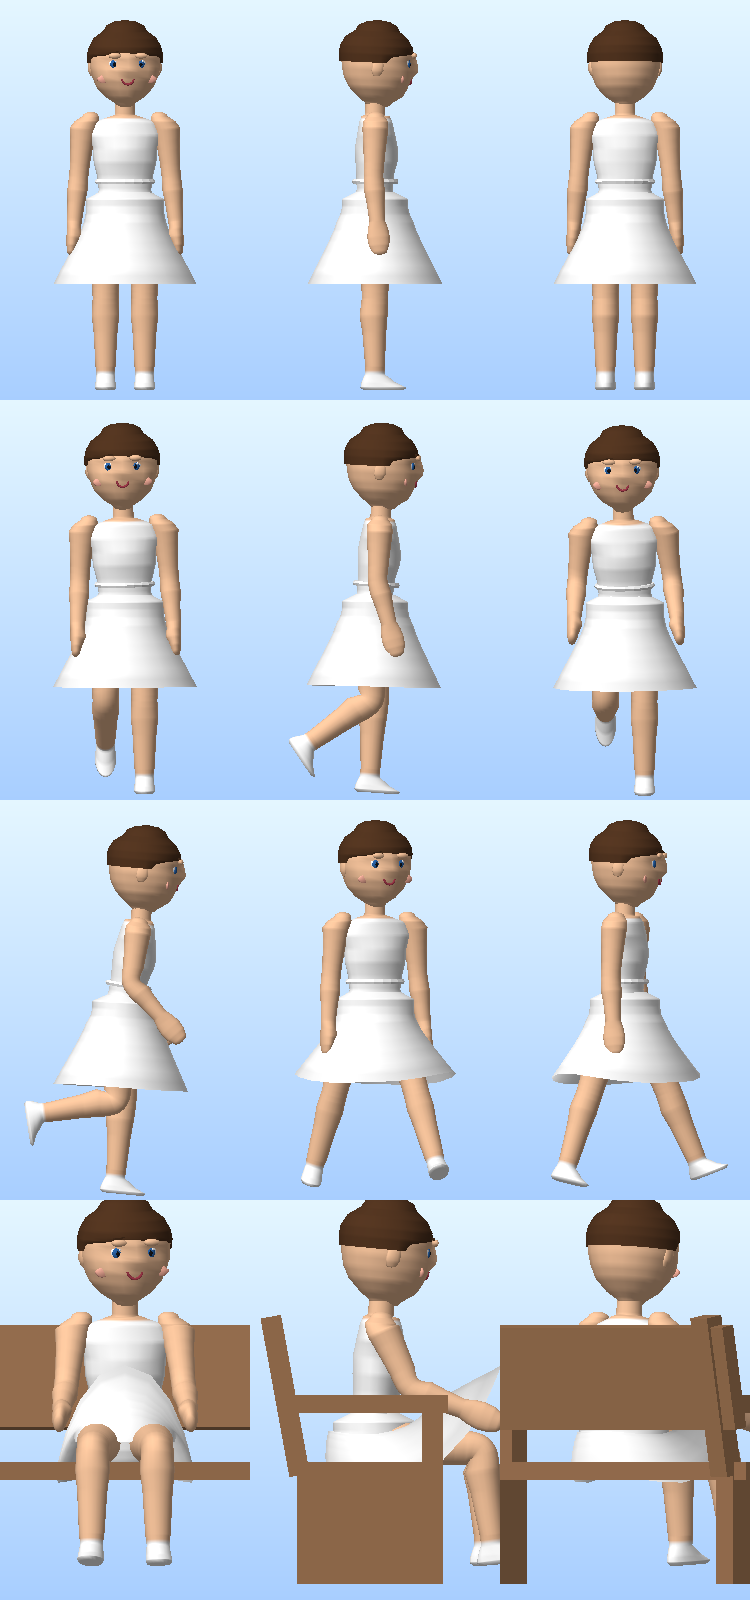
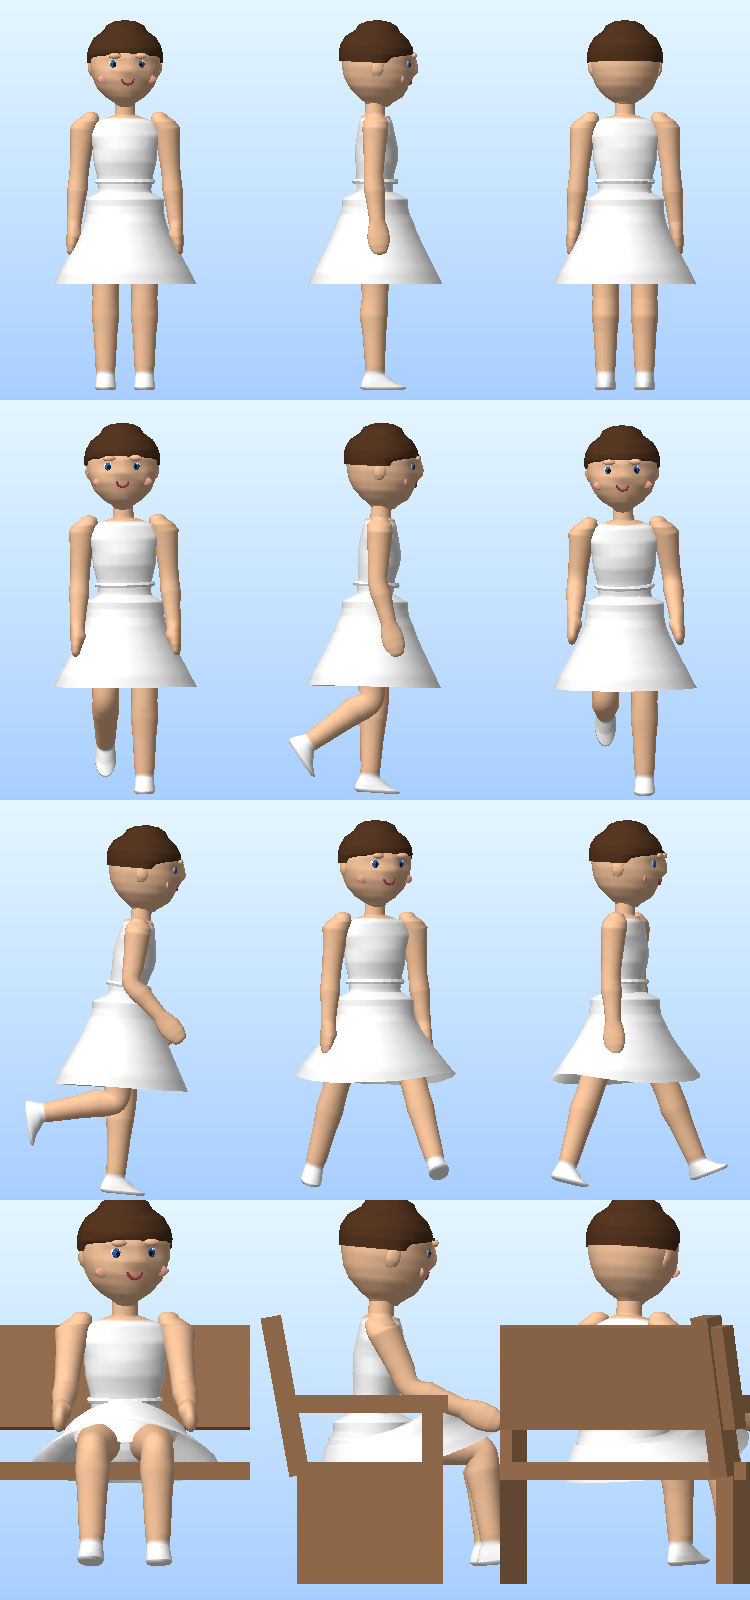
Dá queda à saia de quem senta, com uma segunda fileira de ossos
A captura do jogador mostra o problema inteiro: sentada no banco, a
saia virava um balde rígido. Ela não acompanhava a pose, a parte de
baixo ficava dura e irregular, o quadril não era coberto onde o corpo
estava, o tecido se fundia com a tábua e não havia continuidade entre
tronco, saia e pernas.

Os dezoito testes que já existiam passavam com essa imagem na tela —
eles mediam penetração e cobertura, e um balde levantado satisfaz as
duas coisas. Por isso a correção foi conduzida pela imagem, com os
números no papel de trava, não de objetivo.

A causa é geométrica: a saia tinha um único segmento, preso no
quadril. Girar um cone em torno do quadril não o deita no colo —
rotação preserva o raio, então o tecido passa à frente da coxa em vez
de pousar sobre ela — e quadrantes vizinhos girados de forma muito
diferente vincam a malha em pontas, que é o papelão da captura.

Então a saia ganhou uma articulação. Cada quadrante tem agora um osso
de barra, filho dele, na altura de SKIRT_BREAK_Y. O quadrante de cima
acompanha o corpo; a barra desfaz parte desse giro e volta a cair na
vertical. Como o osso da barra fica exatamente na quebra, o anel dali
não se move e a costura entre as duas fileiras continua fechada. Em
pé e andando lap vale zero e a fileira nova não faz nada: nada do que
já estava certo mudou.

Com a articulação no lugar, os quadrantes puderam ficar próximos uns
dos outros (0,75 à frente contra 0,55 nos lados) e o recolhimento
[…]

diff --git a/src/player/body/BodyRig.ts b/src/player/body/BodyRig.ts
@@ -50,11 +50,30 @@ export const Bone = {
   SkirtF: 12,
   SkirtR: 13,
   SkirtB: 14,
+  /**
+   * A segunda fileira: a barra, filha de cada quadrante.
+   *
+   * Um pano sobre um colo precisa de duas dobradiças, não de uma. A
+   * de cima acompanha a coxa deitada; esta quebra no joelho e deixa o
+   * resto cair. Com um segmento só, a saia sentada é um cone rígido —
+   * foi o que a captura do jogador mostrou.
+   */
+  SkirtHemL: 15,
+  SkirtHemF: 16,
+  SkirtHemR: 17,
+  SkirtHemB: 18,
 } as const;
 
-export const BONE_COUNT = 15;
+export const BONE_COUNT = 19;
 
 /** Os ossos da saia, na ordem dos azimutes que `FollowSpec` espera. */
+export const SKIRT_HEM_QUADRANTS: readonly [number, number, number, number] = [
+  Bone.SkirtHemL,
+  Bone.SkirtHemF,
+  Bone.SkirtHemR,
+  Bone.SkirtHemB,
+];
+
 export const SKIRT_QUADRANTS: readonly [number, number, number, number] = [
   Bone.SkirtL,
   Bone.SkirtF,
@@ -79,6 +98,10 @@ export const BONE_NAMES: readonly string[] = Object.freeze([
   'saia-f',
   'saia-d',
   'saia-t',
+  'saia-e-barra',
+  'saia-f-barra',
+  'saia-d-barra',
+  'saia-t-barra',
 ]);
 
 /* ------------------------- medidas de referência ------------------------- */
@@ -127,15 +150,15 @@ export const HIP_HEIGHT = THIGH + SHIN + ANKLE;
 export const SKIRT_FOLLOW_WALK = 0.5;
 /**
  * Sentada, cada quadrante faz uma coisa diferente — é para isso que
- * eles existem. A frente deita sobre o colo; as laterais quase não
- * giram, porque a saia de quem senta não vai para a frente, ela
- * desce ao lado, e ainda se recolhe para dentro, espremida entre o
- * quadril e a tábua. Seguir tudo junto a 0,92 inflava a saia num
- * balão — número nenhum acusou isso, só a imagem.
+ * eles existem — mas **pouco diferente um do outro**. A frente
+ * acompanha mais que as laterais, e só. Afastar demais um quadrante
+ * do vizinho amassa a malha na diagonal, onde os dois se misturam, e
+ * é de lá que saíam as pontas de papelão da captura do jogador.
+ * Girar todos juntos a 0,92, no outro extremo, inflava um balão.
  */
-export const SKIRT_FOLLOW_LAP = 0.6;
-export const SKIRT_SIDE_LAP = 0.25;
-export const SKIRT_TUCK = 0.25;
+export const SKIRT_FOLLOW_LAP = 0.75;
+export const SKIRT_SIDE_LAP = 0.55;
+
 
 /** Fração da abertura lateral da perna que a saia acompanha. */
 export const SKIRT_SPREAD = 0.5;
@@ -168,7 +191,28 @@ export const LAP_TO = 1.45;
  * sobe um pouco quando a gente senta. Sem isso a barra atravessa a
  * tábua — eram 55 vértices dentro da madeira, agora são 32.
  */
-export const SKIRT_LIFT = 0.24;
+export const SKIRT_LIFT = 0.18;
+
+/**
+ * Onde o pano quebra, em metros abaixo da junta do quadril.
+ *
+ * A saia vai de +0,09 (cintura) a −0,36 (barra). A quebra fica a meio
+ * caminho da parte solta: sentada, é mais ou menos onde o joelho
+ * aparece sob o tecido, e é ali que uma saia de verdade vira e
+ * despenca. Acima dela o pano acompanha a coxa; abaixo, cai.
+ */
+export const SKIRT_BREAK_Y = -0.18;
+
+/**
+ * Quanto da volta da coxa a barra desfaz, sentada.
+ *
+ * Em 1 a metade de baixo fica exatamente na vertical, pendurada da
+ * quebra: é a gravidade pura, o tecido esquecendo que a coxa virou.
+ * Fica abaixo de 1 porque a barra também é puxada para a frente pelo
+ * joelho — ela cai, mas não na prumada perfeita.
+ */
+export const SKIRT_HEM_FALL = 0.65;
+export const SKIRT_HEM_BACK_FALL = 0.35;
 
 /**
  * O recolhimento a mais do pano de trás, em metros e radianos.
@@ -209,20 +253,28 @@ export function poseSkirt(bones: readonly THREE.Bone[], legLX: number, legRX: nu
   const lap = lapAmount(legLX, legRX);
   const front = mix(SKIRT_FOLLOW_WALK, SKIRT_FOLLOW_LAP, lap);
   const side = mix(SKIRT_FOLLOW_WALK, SKIRT_SIDE_LAP, lap);
-  const tuck = SKIRT_TUCK * lap;
   const lift = SKIRT_LIFT * lap;
 
   // Cada lado segue a sua própria perna, e se recolhe para dentro ao
   // sentar: a saia de quem senta não vai para a frente, ela desce ao
   // lado, espremida entre o quadril e a tábua.
-  bones[Bone.SkirtL].rotation.set(side * legLX, 0, SKIRT_SPREAD * legLZ - tuck);
-  bones[Bone.SkirtR].rotation.set(side * legRX, 0, SKIRT_SPREAD * legRZ + tuck);
+  bones[Bone.SkirtL].rotation.set(side * legLX, 0, SKIRT_SPREAD * legLZ);
+  bones[Bone.SkirtR].rotation.set(side * legRX, 0, SKIRT_SPREAD * legRZ);
   // A frente segue a média: zero na passada, o colo inteiro ao sentar.
   bones[Bone.SkirtF].rotation.set(front * average, 0, 0);
   // As costas não giram com perna nenhuma: elas se recolhem. O tombo
   // é para a frente, trazendo a barra para cima do assento; para trás
   // ela entraria no espaldar.
   bones[Bone.SkirtB].rotation.set(-SKIRT_BACK_TILT * lap, 0, 0);
+
+  // A barra desfaz a volta que o quadrante deu: o de cima acompanha a
+  // coxa, o de baixo cai. Em pé `lap` é zero e esta fileira inteira
+  // fica na identidade — andar e correr continuam idênticos ao que
+  // eram antes de ela existir.
+  bones[Bone.SkirtHemL].rotation.x = -SKIRT_HEM_FALL * lap * side * legLX;
+  bones[Bone.SkirtHemR].rotation.x = -SKIRT_HEM_FALL * lap * side * legRX;
+  bones[Bone.SkirtHemF].rotation.x = -SKIRT_HEM_FALL * lap * front * average;
+  bones[Bone.SkirtHemB].rotation.x = SKIRT_HEM_BACK_FALL * lap * SKIRT_BACK_TILT;
 
   bones[Bone.SkirtL].position.y = lift;
   bones[Bone.SkirtR].position.y = lift;
@@ -401,9 +453,13 @@ export function createSkeleton(m: BodyMetrics): BodySkeleton {
   // Os ossos da saia giram em torno da origem do quadril: é de lá que
   // o pano pende, não da junta da perna.
   for (const index of SKIRT_QUADRANTS) place(index, 0, 0, 0);
+  // A dobradiça da barra fica na altura em que o pano quebra, não na
+  // cintura: é em torno dela que a metade de baixo cai.
+  for (const index of SKIRT_HEM_QUADRANTS) place(index, 0, SKIRT_BREAK_Y, 0);
 
   bones[Bone.Hips].add(bones[Bone.Torso], bones[Bone.ThighL], bones[Bone.ThighR]);
   for (const index of SKIRT_QUADRANTS) bones[Bone.Hips].add(bones[index]);
+  for (let q = 0; q < 4; q += 1) bones[SKIRT_QUADRANTS[q]].add(bones[SKIRT_HEM_QUADRANTS[q]]);
   bones[Bone.Torso].add(bones[Bone.Head], bones[Bone.ArmL], bones[Bone.ArmR]);
   bones[Bone.ArmL].add(bones[Bone.ForeL]);
   bones[Bone.ArmR].add(bones[Bone.ForeR]);

diff --git a/tests/unit/vestido-render.test.ts b/tests/unit/vestido-render.test.ts
@@ -131,4 +131,45 @@ describe.runIf(process.env.EDEN_RENDER)('vestido no quadril (visual)', () => {
     writeFileSync(resolve(process.cwd(), 'docs', name), png(sheet.width, sheet.height, sheet.rgb));
     expect(sheet.width).toBeGreaterThan(0);
   });
+
+  it('desenha a sequência de sentar', () => {
+    const avatar = new Avatar({ ...DEFAULT_APPEARANCE, outfit: 'vestido' });
+
+    /** Um instante qualquer da transição entre dois estados. */
+    const during = (from: 'idle' | 'sit', to: 'idle' | 'sit', frames: number): Pose => {
+      const animator = new AvatarAnimator();
+      let pose = animator.update(1 / 60, { state: from, speed: 0, stridePhase: 0, verticalSpeed: 0, elapsed: 0 });
+      for (let f = 1; f <= 120; f += 1) {
+        pose = animator.update(1 / 60, { state: from, speed: 0, stridePhase: 0, verticalSpeed: 0, elapsed: f / 60 });
+      }
+      for (let f = 1; f <= frames; f += 1) {
+        pose = animator.update(1 / 60, { state: to, speed: 0, stridePhase: 0, verticalSpeed: 0, elapsed: (120 + f) / 60 });
+      }
+      return pose;
+    };
+
+    const emPe = settle('idle', 0);
+    const sentada = during('idle', 'sit', 150);
+
+    // 1: em pé, de frente, de três quartos e de perfil.
+    const linha1 = strip([seated(avatar, emPe, 0), seated(avatar, emPe, -0.45), seated(avatar, emPe, Math.PI / 2)]);
+    // 2: sentando — três instantes da descida.
+    const linha2 = strip([
+      seated(avatar, during('idle', 'sit', 6), -0.45),
+      seated(avatar, during('idle', 'sit', 14), -0.45),
+      seated(avatar, during('idle', 'sit', 26), -0.45),
+    ]);
+    // 3: sentada, de frente, de três quartos e de perfil.
+    const linha3 = strip([seated(avatar, sentada, 0), seated(avatar, sentada, -0.45), seated(avatar, sentada, Math.PI / 2)]);
+    // 4: levantando — três instantes da volta.
+    const linha4 = strip([
+      seated(avatar, during('sit', 'idle', 6), -0.45),
+      seated(avatar, during('sit', 'idle', 14), -0.45),
+      seated(avatar, during('sit', 'idle', 30), -0.45),
+    ]);
+
+    const sheet = stack([linha1, linha2, linha3, linha4]);
+    writeFileSync(resolve(process.cwd(), 'docs', 'vestido-sentada.png'), png(sheet.width, sheet.height, sheet.rgb));
+    expect(sheet.width).toBeGreaterThan(0);
+  });
 });

diff --git a/src/player/body/BodyBuilder.ts b/src/player/body/BodyBuilder.ts
@@ -23,7 +23,7 @@ import { Zone as MorphZone } from '../../afters/AftersMorph';
 import { TAU } from '../../utils/math';
 import type { AvatarAppearance } from '../AvatarAppearance';
 import type { BodyProportions } from './BodyProportions';
-import { Bone, type BodyDetail, type BodyMetrics, HEAD_CENTER, SKIRT_FOLLOW_WALK, SKIRT_QUADRANTS, morphOrigins } from './BodyRig';
+import { Bone, type BodyDetail, type BodyMetrics, HEAD_CENTER, SKIRT_BREAK_Y, SKIRT_FOLLOW_WALK, SKIRT_HEM_QUADRANTS, SKIRT_QUADRANTS, morphOrigins } from './BodyRig';
 import { type FollowSpec, type SkinBinding, type Station, SurfaceBuilder, subdivideProfile } from './BodySurface';
 
 type Hex = THREE.ColorRepresentation;
@@ -499,7 +499,11 @@ function buildSkirt(b: SurfaceBuilder, m: BodyMetrics, detail: BodyDetail, top: 
       origin: hip,
       // O peso é só quanto do vértice é saia; **quanto** a saia anda
       // é decisão de quem posa, não da malha (ver `Avatar.applyPose`).
-      follow: { quadrants: SKIRT_QUADRANTS, weight: clothShare(y) },
+      // Abaixo da quebra o pano pertence à segunda dobradiça. A troca
+      // é por anel, e não precisa de mistura: a barra gira em torno
+      // da própria quebra, então o anel que está nela não se move e a
+      // costura entre as duas fileiras continua fechada.
+      follow: { quadrants: y < SKIRT_BREAK_Y ? SKIRT_HEM_QUADRANTS : SKIRT_QUADRANTS, weight: clothShare(y) },
     };
   });
 
